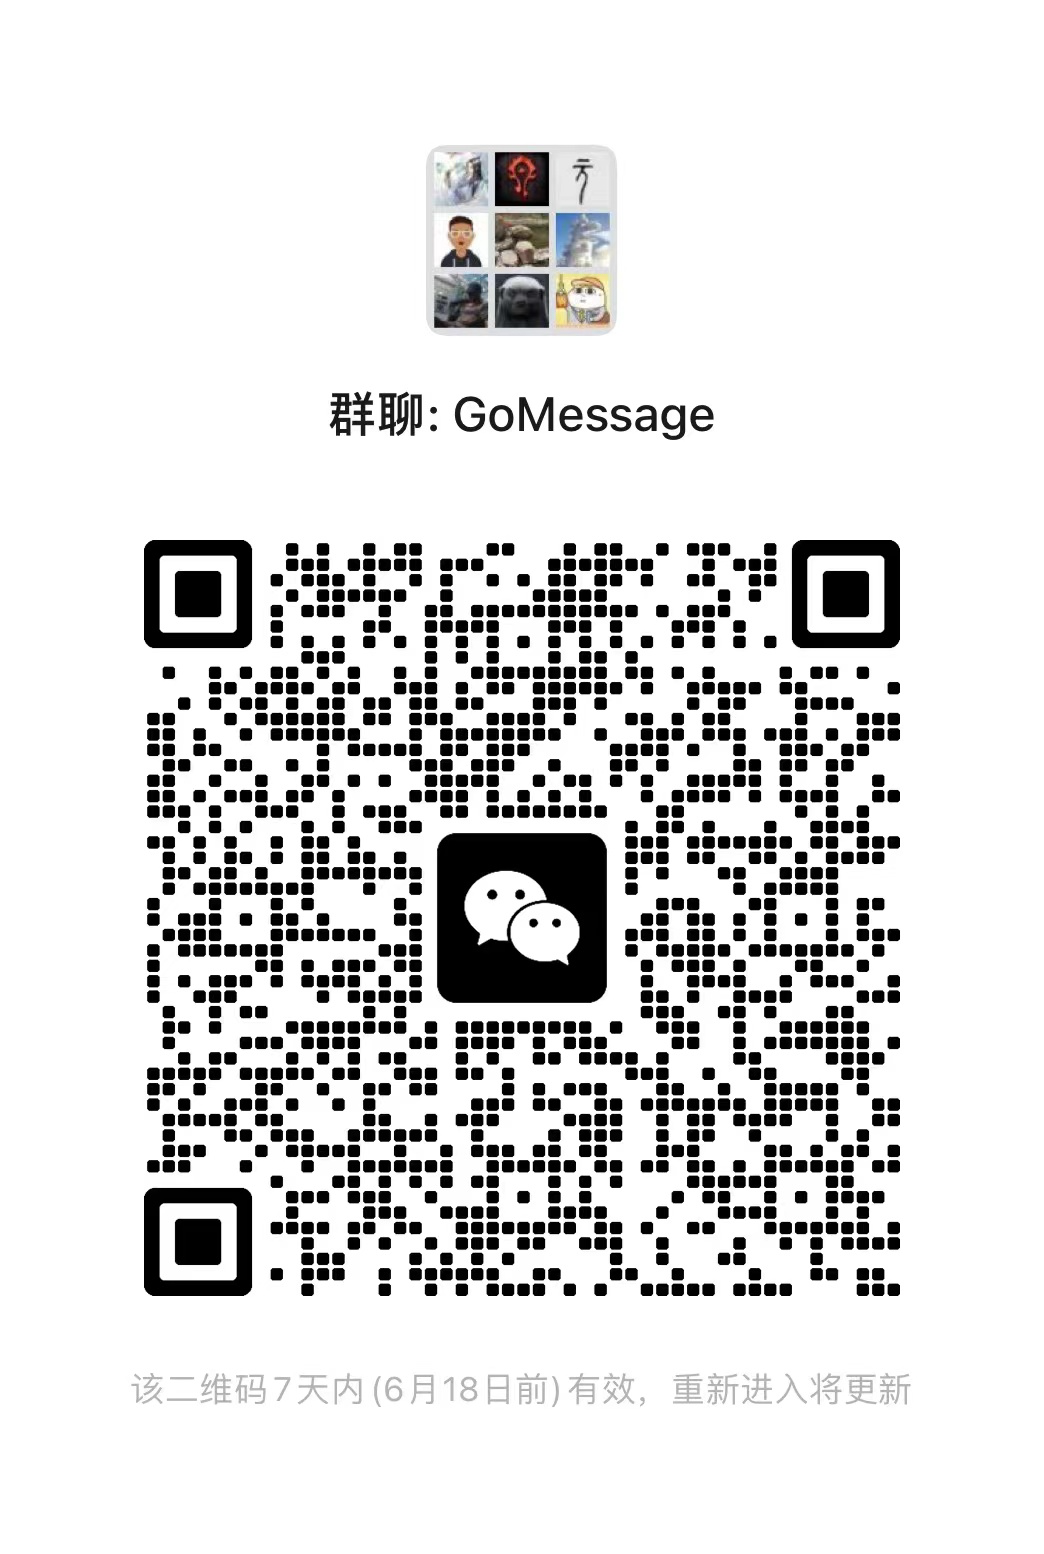
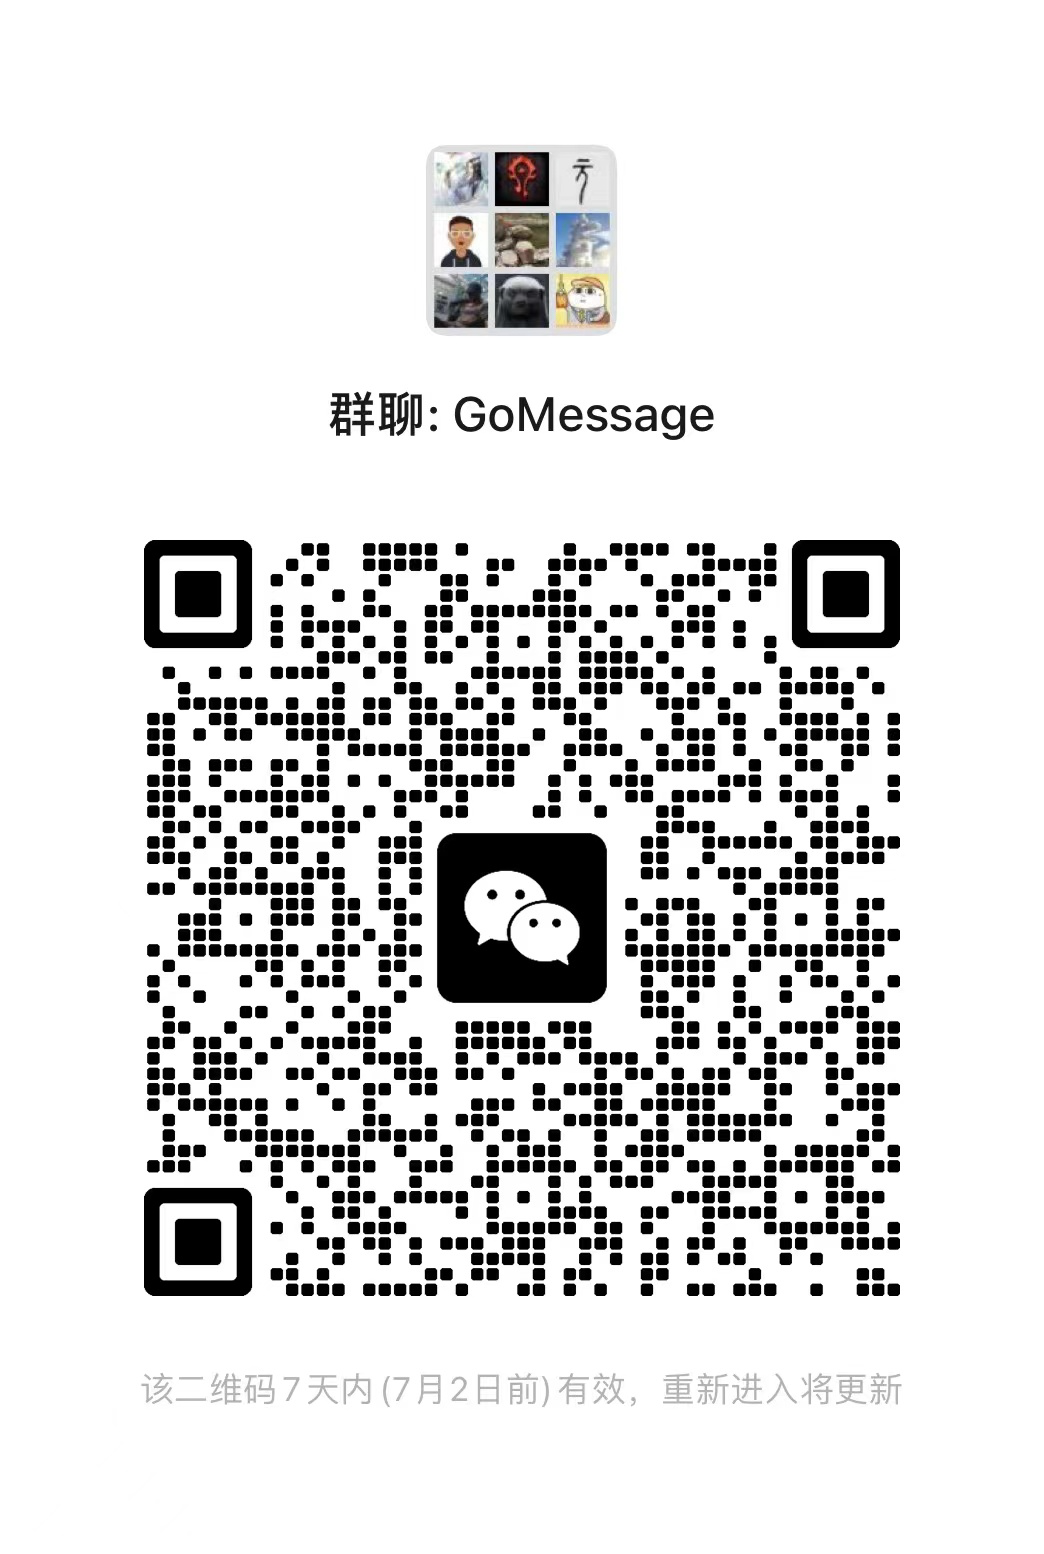
update

diff --git a/README.md b/README.md
@@ -247,5 +247,5 @@ GoMessage尽可能的设计了比较`简约、简单、且有广泛兼容性`的
 
 > 如果二维码失效可以添加作者微信号 `SPE3SRU3STAY` 邀请您进群。
 
-<img src="./wiki/images/image-20230625003012178.png" width="300" />
+<img src="wiki/images/wechat.png" width="300" />
 
